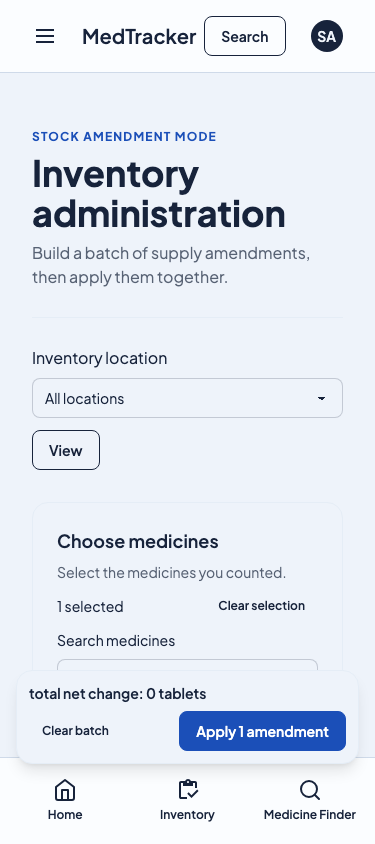
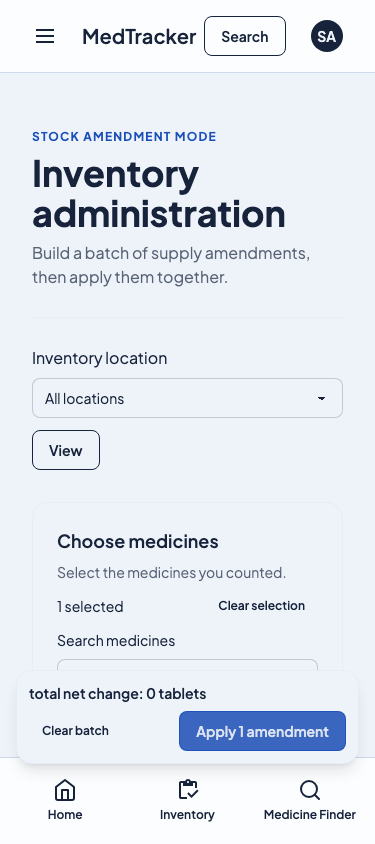
fix(care): close review findings and wider journey failures

Changed region(s): [[0.4693, 0.8318, 0.9387, 0.8934]]

diff --git a/assets/views/health_events/form.html b/assets/views/health_events/form.html
@@ -2,9 +2,9 @@
 {% block content %}
 <section class="max-w-3xl mx-auto space-y-6">
   <h1 class="text-3xl font-semibold">{{ title }}</h1>
-  <p>{{ person.name }} · {{ labels.form.subtitle }}</p>
+  <p>{{ person.name }} · {{ health_labels.form.subtitle }}</p>
   {% if error %}
-  <div id="health-event-error" class="alert alert-error" role="alert"><div><p>{{ error }}</p>{% if editing %}<a class="link" href="{{ latest_url }}">{{ labels.browser.latest }}</a>{% endif %}</div></div>
+  <div id="health-event-error" class="alert alert-error" role="alert"><div><p>{{ error }}</p>{% if editing %}<a class="link" href="{{ latest_url }}">{{ health_labels.browser.latest }}</a>{% endif %}</div></div>
   {% endif %}
   <form method="post" action="{{ action }}" class="card bg-base-100 border border-base-300" {% if error %}aria-describedby="health-event-error"{% endif %}>
     <div class="card-body gap-6">
@@ -12,33 +12,33 @@
       <input type="hidden" name="etag" value="{{ draft.etag }}">
       <input type="hidden" name="event_kind" value="{{ draft.event_kind }}">
       <input type="hidden" name="locale" value="{{ lang }}">
-      <div class="grid gap-2"><label for="health-title" class="font-semibold">{{ labels.form.title }}</label><input id="health-title" name="title" value="{{ draft.title }}" class="input w-full" required></div>
+      <div class="grid gap-2"><label for="health-title" class="font-semibold">{{ health_labels.form.title }}</label><input id="health-title" name="title" value="{{ draft.title }}" class="input w-full" required></div>
       <div class="grid sm:grid-cols-2 gap-6">
-        <div class="grid gap-2"><label for="health-started" class="font-semibold">{{ labels.form.started_on }}</label><input id="health-started" name="started_on" type="date" value="{{ draft.started_on }}" class="input w-full min-w-0" required></div>
-        <div class="grid gap-2"><label for="health-ended" class="font-semibold">{{ labels.form.ended_on }}</label><input id="health-ended" name="ended_on" type="date" value="{{ draft.ended_on }}" class="input w-full min-w-0" {% if end_error %}aria-invalid="true" aria-describedby="health-event-error"{% endif %}>
-          <label class="flex items-center gap-3"><input name="ongoing" type="checkbox" value="1" class="checkbox" {% if draft.ongoing | default(value="") == "1" %}checked{% endif %}>{{ labels.form.ongoing }}</label>
+        <div class="grid gap-2"><label for="health-started" class="font-semibold">{{ health_labels.form.started_on }}</label><input id="health-started" name="started_on" type="date" value="{{ draft.started_on }}" class="input w-full min-w-0" required></div>
+        <div class="grid gap-2"><label for="health-ended" class="font-semibold">{{ health_labels.form.ended_on }}</label><input id="health-ended" name="ended_on" type="date" value="{{ draft.ended_on }}" class="input w-full min-w-0" {% if end_error %}aria-invalid="true" aria-describedby="health-event-error"{% endif %}>
+          <label class="flex items-center gap-3"><input name="ongoing" type="checkbox" value="1" class="checkbox" {% if draft.ongoing | default(value="") == "1" %}checked{% endif %}>{{ health_labels.form.ongoing }}</label>
         </div>
       </div>
-      <div class="grid gap-2"><label for="health-severity" class="font-semibold">{{ labels.form.severity }}</label>
+      <div class="grid gap-2"><label for="health-severity" class="font-semibold">{{ health_labels.form.severity }}</label>
         <select id="health-severity" name="severity" class="select w-full">
-          <option value="" {% if draft.severity == "" %}selected{% endif %}>{{ labels.form.no_severity }}</option>
-          {% for value in ["mild","moderate","severe"] %}<option value="{{ value }}" {% if draft.severity == value %}selected{% endif %}>{{ labels.severities[value] }}</option>{% endfor %}
+          <option value="" {% if draft.severity == "" %}selected{% endif %}>{{ health_labels.form.no_severity }}</option>
+          {% for value in ["mild","moderate","severe"] %}<option value="{{ value }}" {% if draft.severity == value %}selected{% endif %}>{{ health_labels.severities[value] }}</option>{% endfor %}
         </select>
       </div>
       {% if side_effect %}
-      <fieldset class="space-y-3"><legend class="font-semibold">{{ labels.form.suspected_medications }}</legend>
-        {% if medications | length == 0 %}<p>{{ labels.browser.medications_empty }}</p>{% endif %}
+      <fieldset class="space-y-3"><legend class="font-semibold">{{ health_labels.form.suspected_medications }}</legend>
+        {% if medications | length == 0 %}<p>{{ health_labels.browser.medications_empty }}</p>{% endif %}
         {% for medication in medications %}
         <label class="flex items-center gap-3"><input name="medication_{{ medication.id }}" type="checkbox" value="1" class="checkbox" {% if medication.selected %}checked{% endif %}>{{ medication.name }}</label>
         {% endfor %}
       </fieldset>
       {% endif %}
-      <div class="grid gap-2"><label for="health-notes" class="font-semibold">{{ labels.form.notes }}</label><textarea id="health-notes" name="notes" class="textarea w-full" rows="4">{{ draft.notes }}</textarea></div>
-      <div class="grid gap-2"><label for="health-action" class="font-semibold">{{ labels.form.action_taken }}</label><textarea id="health-action" name="action_taken" class="textarea w-full" rows="3">{{ draft.action_taken }}</textarea></div>
-      <label class="flex items-center gap-3"><input name="medical_help_sought" type="checkbox" value="1" class="checkbox" {% if draft.medical_help_sought | default(value="") == "1" %}checked{% endif %}>{{ labels.form.medical_help_sought }}</label>
+      <div class="grid gap-2"><label for="health-notes" class="font-semibold">{{ health_labels.form.notes }}</label><textarea id="health-notes" name="notes" class="textarea w-full" rows="4">{{ draft.notes }}</textarea></div>
+      <div class="grid gap-2"><label for="health-action" class="font-semibold">{{ health_labels.form.action_taken }}</label><textarea id="health-action" name="action_taken" class="textarea w-full" rows="3">{{ draft.action_taken }}</textarea></div>
+      <label class="flex items-center gap-3"><input name="medical_help_sought" type="checkbox" value="1" class="checkbox" {% if draft.medical_help_sought | default(value="") == "1" %}checked{% endif %}>{{ health_labels.form.medical_help_sought }}</label>
       <div class="flex flex-wrap gap-3">
-        <button type="submit" class="btn btn-neutral">{{ labels.actions.save }}</button>
-        <a class="btn btn-ghost" href="/households/{{ slug }}/people/{{ person.id }}/health_events?locale={{ lang }}">{{ labels.actions.cancel }}</a>
+        <button type="submit" class="btn btn-neutral">{{ health_labels.actions.save }}</button>
+        <a class="btn btn-ghost" href="/households/{{ slug }}/people/{{ person.id }}/health_events?locale={{ lang }}">{{ health_labels.actions.cancel }}</a>
       </div>
     </div>
   </form>

diff --git a/assets/views/health_events/index.html b/assets/views/health_events/index.html
@@ -4,43 +4,43 @@
   <a class="link" href="/households/{{ slug }}/people/{{ person.id }}">{{ back_label }}: {{ person.name }}</a>
   <header class="space-y-2">
     <h1 class="text-3xl font-semibold">{{ title }}</h1>
-    <p class="text-base-content/70">{{ labels.index.subtitle }}</p>
+    <p class="text-base-content/70">{{ health_labels.index.subtitle }}</p>
   </header>
   {% if can_record %}
   <div class="flex flex-wrap gap-3">
-    <a class="btn btn-neutral" href="/households/{{ slug }}/people/{{ person.id }}/health_events/new?event_kind=illness&amp;locale={{ lang }}">{{ labels.actions.record_illness }}</a>
-    <a class="btn btn-outline" href="/households/{{ slug }}/people/{{ person.id }}/health_events/new?event_kind=suspected_side_effect&amp;locale={{ lang }}">{{ labels.actions.record_suspected_side_effect }}</a>
+    <a class="btn btn-neutral" href="/households/{{ slug }}/people/{{ person.id }}/health_events/new?event_kind=illness&amp;locale={{ lang }}">{{ health_labels.actions.record_illness }}</a>
+    <a class="btn btn-outline" href="/households/{{ slug }}/people/{{ person.id }}/health_events/new?event_kind=suspected_side_effect&amp;locale={{ lang }}">{{ health_labels.actions.record_suspected_side_effect }}</a>
   </div>
   {% endif %}
   {% if events | length == 0 %}
-  <p class="rounded-box border border-base-300 bg-base-100 p-6">{{ labels.index.empty }}</p>
+  <p class="rounded-box border border-base-300 bg-base-100 p-6">{{ health_labels.index.empty }}</p>
   {% else %}
   <ol class="space-y-4">
     {% for event in events %}
     <li><article class="card bg-base-100 border border-base-300"><div class="card-body">
-      <span class="badge badge-outline">{{ labels.kinds[event.event_kind] }}</span>
+      <span class="badge badge-outline">{{ health_labels.kinds[event.event_kind] }}</span>
       <h2 class="card-title">{{ event.title }}</h2>
-      {% if event.ongoing %}<p>{{ labels.index.ongoing_from | replace(from="%{started_on}",to=event.started_on) }}</p>{% else %}<p>{{ labels.index.date_range | replace(from="%{started_on}",to=event.started_on) | replace(from="%{ended_on}",to=event.ended_on) }}</p>{% endif %}
-      {% if event.severity %}<p>{{ labels.form.severity }}: {{ labels.severities[event.severity] }}</p>{% endif %}
-      {% if event.medication_names | length > 0 %}<p>{{ labels.form.suspected_medications }}: {{ event.medication_names | join(sep=", ") }}</p>{% endif %}
-      {% if event.notes %}<p class="whitespace-pre-wrap">{{ labels.form.notes }}: {{ event.notes }}</p>{% endif %}
-      {% if event.action_taken %}<p class="whitespace-pre-wrap">{{ labels.form.action_taken }}: {{ event.action_taken }}</p>{% endif %}
-      {% if event.medical_help_sought %}<p>{{ labels.form.medical_help_sought }}</p>{% endif %}
+      {% if event.ongoing %}<p>{{ health_labels.index.ongoing_from | replace(from="%{started_on}",to=event.started_on) }}</p>{% else %}<p>{{ health_labels.index.date_range | replace(from="%{started_on}",to=event.started_on) | replace(from="%{ended_on}",to=event.ended_on) }}</p>{% endif %}
+      {% if event.severity %}<p>{{ health_labels.form.severity }}: {{ health_labels.severities[event.severity] }}</p>{% endif %}
+      {% if event.medication_names | length > 0 %}<p>{{ health_labels.form.suspected_medications }}: {{ event.medication_names | join(sep=", ") }}</p>{% endif %}
+      {% if event.notes %}<p class="whitespace-pre-wrap">{{ health_labels.form.notes }}: {{ event.notes }}</p>{% endif %}
+      {% if event.action_taken %}<p class="whitespace-pre-wrap">{{ health_labels.form.action_taken }}: {{ event.action_taken }}</p>{% endif %}
+      {% if event.medical_help_sought %}<p>{{ health_labels.form.medical_help_sought }}</p>{% endif %}
       {% if can_manage %}
       <div class="flex flex-wrap gap-3">
-        <a class="btn btn-outline w-fit" href="/households/{{ slug }}/people/{{ person.id }}/health_events/{{ event.id }}/edit?locale={{ lang }}">{{ labels.actions.edit }}</a>
-        <button type="button" class="btn btn-outline btn-error" data-dialog-open="health-delete-{{ event.id }}">{{ labels.actions.delete }}</button>
+        <a class="btn btn-outline w-fit" href="/households/{{ slug }}/people/{{ person.id }}/health_events/{{ event.id }}/edit?locale={{ lang }}">{{ health_labels.actions.edit }}</a>
+        <button type="button" class="btn btn-outline btn-error" data-dialog-open="health-delete-{{ event.id }}">{{ health_labels.actions.delete }}</button>
       </div>
       <dialog id="health-delete-{{ event.id }}" class="modal" aria-labelledby="health-delete-title-{{ event.id }}">
         <div class="modal-box space-y-4">
-          <h2 id="health-delete-title-{{ event.id }}" class="text-xl font-semibold">{{ labels.browser.delete_confirm }}</h2>
-          <p>{{ event.title }}</p><p>{{ labels.browser.delete_body }}</p>
+          <h2 id="health-delete-title-{{ event.id }}" class="text-xl font-semibold">{{ health_labels.browser.delete_confirm }}</h2>
+          <p>{{ event.title }}</p><p>{{ health_labels.browser.delete_body }}</p>
           <form method="post" action="/households/{{ slug }}/people/{{ person.id }}/health_events/{{ event.id }}/delete" class="flex flex-wrap gap-3">
             <input type="hidden" name="authenticity_token" value="{{ authenticity_token }}">
             <input type="hidden" name="etag" value="{{ event.etag }}">
             <input type="hidden" name="locale" value="{{ lang }}">
-            <button type="button" class="btn btn-ghost" data-dialog-close>{{ labels.actions.cancel }}</button>
-            <button type="submit" class="btn btn-error">{{ labels.actions.delete }}</button>
+            <button type="button" class="btn btn-ghost" data-dialog-close>{{ health_labels.actions.cancel }}</button>
+            <button type="submit" class="btn btn-error">{{ health_labels.actions.delete }}</button>
           </form>
         </div>
       </dialog>

diff --git a/assets/views/person_carers/index.html b/assets/views/person_carers/index.html
@@ -2,7 +2,7 @@
 {% block content %}
 <section class="max-w-3xl mx-auto space-y-6">
   <a class="link" href="/households/{{ slug }}/people/{{ person.id }}">{{ back_label }}: {{ person.name }}</a>
-  <header><h1 class="text-3xl font-semibold">{{ title }}</h1><p class="mt-2">{{ labels.new_subtitle | replace(from="%{name}",to=person.name) }}</p></header>
+  <header><h1 class="text-3xl font-semibold">{{ title }}</h1><p class="mt-2">{{ carer_labels.new_subtitle | replace(from="%{name}",to=person.name) }}</p></header>
   {% include "components/care_warning.html" %}
   {% if error %}<div class="alert alert-error" id="person-carer-error" role="alert">{{ error }}</div>{% endif %}
   <div class="card bg-base-100 border border-base-300"><div class="card-body">
@@ -10,40 +10,40 @@
       <input type="hidden" name="authenticity_token" value="{{ authenticity_token }}">
       <input type="hidden" name="locale" value="{{ lang }}">
       {% if manager %}
-      <div class="grid gap-2"><label class="font-semibold" for="person-carer-id">{{ labels.carer }}</label>
+      <div class="grid gap-2"><label class="font-semibold" for="person-carer-id">{{ carer_labels.carer }}</label>
         <select class="select w-full" id="person-carer-id" name="carer_id" required>
-          <option value="">{{ labels.select_carer }}</option>
+          <option value="">{{ carer_labels.select_carer }}</option>
           {% for carer in options %}<option value="{{ carer.id }}" {% if carer.selected %}selected{% endif %}>{{ carer.name }}</option>{% endfor %}
         </select>
       </div>
-      <div class="grid gap-2"><label class="font-semibold" for="person-carer-kind">{{ labels.relationship_type }}</label>
+      <div class="grid gap-2"><label class="font-semibold" for="person-carer-kind">{{ carer_labels.relationship_type }}</label>
         <select class="select w-full" id="person-carer-kind" name="relationship_type">
-          {% for kind in ["parent","family_member","professional_carer"] %}<option value="{{ kind }}" {% if draft.relationship_type == kind %}selected{% endif %}>{{ labels.browser[kind] }}</option>{% endfor %}
+          {% for kind in ["parent","family_member","professional_carer"] %}<option value="{{ kind }}" {% if draft.relationship_type == kind %}selected{% endif %}>{{ carer_labels.browser[kind] }}</option>{% endfor %}
         </select>
       </div>
       {% else %}
-      <div class="grid gap-2"><label class="font-semibold" for="person-carer-email">{{ labels.email }}</label>
-        <input class="input w-full" id="person-carer-email" name="email" type="email" value="{{ draft.email }}" placeholder="{{ labels.email_placeholder }}" autocomplete="email" required {% if error %}aria-invalid="true" aria-describedby="person-carer-error"{% endif %}>
+      <div class="grid gap-2"><label class="font-semibold" for="person-carer-email">{{ carer_labels.email }}</label>
+        <input class="input w-full" id="person-carer-email" name="email" type="email" value="{{ draft.email }}" placeholder="{{ carer_labels.email_placeholder }}" autocomplete="email" required {% if error %}aria-invalid="true" aria-describedby="person-carer-error"{% endif %}>
       </div>
       {% endif %}
-      <div class="flex flex-wrap gap-3"><button class="btn btn-neutral" type="submit">{{ labels.submit }}</button><a class="btn btn-ghost" href="/households/{{ slug }}/people/{{ person.id }}">{{ labels.cancel }}</a></div>
+      <div class="flex flex-wrap gap-3"><button class="btn btn-neutral" type="submit">{{ carer_labels.submit }}</button><a class="btn btn-ghost" href="/households/{{ slug }}/people/{{ person.id }}">{{ carer_labels.cancel }}</a></div>
     </form>
   </div></div>
   <section aria-labelledby="person-carer-list-heading" class="space-y-4">
-    <h2 id="person-carer-list-heading" class="text-2xl font-semibold">{{ labels.browser.relationships }}</h2>
-    {% if records | length == 0 %}<p>{{ labels.browser.empty }}</p>{% endif %}
+    <h2 id="person-carer-list-heading" class="text-2xl font-semibold">{{ carer_labels.browser.relationships }}</h2>
+    {% if records | length == 0 %}<p>{{ carer_labels.browser.empty }}</p>{% endif %}
     <ul class="space-y-3">
       {% for relation in records %}
       <li class="card bg-base-100 border border-base-300"><div class="card-body gap-3">
         <h3 class="card-title">{{ relation.name }}</h3>
-        <p>{{ labels.browser[relation.kind] | default(value=relation.kind) }}</p>
-        <p class="badge badge-outline">{% if relation.active %}{{ labels.browser.active }}{% else %}{{ labels.browser.inactive }}{% endif %}</p>
+        <p>{{ carer_labels.browser[relation.kind] | default(value=relation.kind) }}</p>
+        <p class="badge badge-outline">{% if relation.active %}{{ carer_labels.browser.active }}{% else %}{{ carer_labels.browser.inactive }}{% endif %}</p>
         {% if manager %}
         <form action="/households/{{ slug }}/people/{{ person.id }}/carer_relationships/{{ relation.id }}/{% if relation.active %}remove{% else %}restore{% endif %}" method="post">
           <input type="hidden" name="authenticity_token" value="{{ authenticity_token }}">
           <input type="hidden" name="locale" value="{{ lang }}">
           <input type="hidden" name="version" value="{{ relation.version }}">
-          <button class="btn btn-outline w-fit {% if relation.active %}btn-error{% endif %}" type="submit">{% if relation.active %}{{ labels.browser.remove }}{% else %}{{ labels.browser.restore }}{% endif %}</button>
+          <button class="btn btn-outline w-fit {% if relation.active %}btn-error{% endif %}" type="submit">{% if relation.active %}{{ carer_labels.browser.remove }}{% else %}{{ carer_labels.browser.restore }}{% endif %}</button>
         </form>
         {% endif %}
       </div></li>

diff --git a/assets/views/medications/workflow.html b/assets/views/medications/workflow.html
@@ -1,12 +1,12 @@
 {% extends "layouts/base.html" %}
 {% block content %}
 <section class="max-w-2xl mx-auto">
-  <a class="link" href="/households/{{ slug }}/medications">Back to medications</a>
-  <h1 class="text-3xl font-semibold mt-4">Choose a person</h1>
-  <p class="mt-2">Choose whose medication you want to manage.</p>
+  <a class="link" href="/households/{{ slug }}/medications">{{ labels.medication_workflow.chooser.back }}</a>
+  <h1 class="text-3xl font-semibold mt-4">{{ labels.medication_workflow.chooser.title }}</h1>
+  <p class="mt-2">{{ labels.medication_workflow.chooser.subtitle }}</p>
   <ul class="grid gap-3 mt-6">
-    {% for person in people %}<li class="card card-body border border-base-300 bg-base-100"><h2 class="card-title">{{ person.name }}</h2><div class="flex flex-wrap gap-2">{% if schedule_intent %}<a class="btn btn-neutral" href="/households/{{ slug }}/people/{{ person.id }}/treatments/schedules/new?source=workflow{% if medication_id %}&medication_id={{ medication_id }}{% endif %}">{{ labels.global_search.schedule_for | replace(from="%{person}", to=person.name) }}</a>{% else %}<a class="btn btn-neutral" href="/households/{{ slug }}/people/{{ person.id }}/treatments/assignments/new?source=workflow{% if medication_id %}&medication_id={{ medication_id }}{% endif %}">Assign medication to {{ person.name }}</a>{% if can_create %}<a class="btn btn-outline" href="/households/{{ slug }}/medications/new?person_id={{ person.id }}">Create medication for {{ person.name }}</a>{% endif %}{% endif %}</div></li>
-    {% else %}<li>No people are available for medication management.</li>{% endfor %}
+    {% for person in people %}<li class="card card-body border border-base-300 bg-base-100"><h2 class="card-title">{{ person.name }}</h2><div class="flex flex-wrap gap-2">{% if schedule_intent %}<a class="btn btn-neutral" href="/households/{{ slug }}/people/{{ person.id }}/treatments/schedules/new?source=workflow{% if medication_id %}&medication_id={{ medication_id }}{% endif %}">{{ labels.global_search.schedule_for | replace(from="%{person}", to=person.name) }}</a>{% else %}<a class="btn btn-neutral" href="/households/{{ slug }}/people/{{ person.id }}/treatments/assignments/new?source=workflow{% if medication_id %}&medication_id={{ medication_id }}{% endif %}">{{ labels.medication_workflow.chooser.assign | replace(from="%{person}", to=person.name) }}</a>{% if can_create %}<a class="btn btn-outline" href="/households/{{ slug }}/medications/new?person_id={{ person.id }}">{{ labels.medication_workflow.chooser.create | replace(from="%{person}", to=person.name) }}</a>{% endif %}{% endif %}</div></li>
+    {% else %}<li>{{ labels.medication_workflow.chooser.empty }}</li>{% endfor %}
   </ul>
 </section>
 {% endblock content %}

diff --git a/assets/static/css/app.css b/assets/static/css/app.css
@@ -43,4 +43,5 @@ dialog.modal:not([open]) { display: none; }
 .tab { color: var(--foreground); }
 .btn { max-width: 100%; }
 @media (max-width: 480px) { .shell-main { padding-block: 1.5rem; } .shell-header-inner { gap: 0.5rem; flex-wrap: wrap; } .shell-header-inner.app-header { flex-wrap: nowrap; } }
+@media (max-width: 350px) { .shell-header-inner.app-header { flex-wrap: wrap; } }
 @media (prefers-reduced-motion: reduce) { *, *::before, *::after { scroll-behavior: auto !important; transition-duration: 0.01ms !important; animation-duration: 0.01ms !important; } }

diff --git a/tests/care_api/browser_push_reminders.rs b/tests/care_api/browser_push_reminders.rs
@@ -1265,7 +1265,8 @@ async fn browser_reminder_keeps_independent_device_outcomes() {
         .with_second(0)
         .unwrap()
         .with_nanosecond(0)
-        .unwrap();
+        .unwrap()
+        - chrono::Duration::minutes(1);
     app.fixture.admin.execute_unprepared("UPDATE accounts SET preferences=jsonb_build_object('time_zone','UTC') WHERE id=71001; UPDATE person_medications SET administration_kind=0,dose_cycle=0,max_daily_doses=1,created_at=now()-interval '2 days' WHERE id=81001; INSERT INTO push_subscriptions(account_id,endpoint,p256dh,auth,created_at,updated_at) VALUES(71001,'https://fcm.googleapis.com/fcm/send/accepted','synthetic','synthetic',now(),now()),(71001,'https://fcm.googleapis.com/fcm/send/failed','synthetic','synthetic',now(),now())").await.unwrap();
     app.fixture.admin.execute_raw(Statement::from_sql_and_values(DbBackend::Postgres,
         "INSERT INTO notification_preferences(household_id,person_id,enabled,dose_due_enabled,missed_dose_enabled,low_stock_enabled,private_text_enabled,morning_time,afternoon_time,evening_time,night_time,created_at,updated_at) VALUES(72001,73001,true,true,false,false,true,$1,NULL,NULL,NULL,now(),now())", [now.time().into()])).await.unwrap();
@@ -1290,6 +1291,13 @@ async fn browser_reminder_keeps_independent_device_outcomes() {
     assert_eq!(row.try_get::<i64>("", "accepted").unwrap(), 1);
     assert_eq!(row.try_get::<i64>("", "retryable").unwrap(), 1);
     assert_eq!(transport.0.lock().unwrap().len(), 2);
+    let row = app.fixture.admin.query_one_raw(Statement::from_string(DbBackend::Postgres,
+        "SELECT next_attempt_at FROM notification_deliveries WHERE status='pending' AND attempt_count=1")).await.unwrap().unwrap();
+    let retry_at = row
+        .try_get::<chrono::NaiveDateTime>("", "next_attempt_at")
+        .unwrap()
+        .and_utc();
+    assert!(retry_at > now + chrono::Duration::minutes(2));
     app.fixture
         .admin
         .execute_unprepared("DELETE FROM push_subscriptions WHERE account_id=71001")
@@ -1299,7 +1307,7 @@ async fn browser_reminder_keeps_independent_device_outcomes() {
         browser_push::reminders::drain_pending(
             &app.context,
             &scope,
-            now + chrono::Duration::minutes(2)
+            retry_at + chrono::Duration::seconds(1)
         )
         .await
         .unwrap(),

diff --git a/src/controllers/people/carer_relationships.rs b/src/controllers/people/carer_relationships.rs
@@ -63,7 +63,8 @@ impl Page<'_> {
             data["slug"] = json!(self.slug);
             data["lang"] = json!(language);
             data["title"] = labels["people"]["carer_relationships"]["new_title"].clone();
-            data["labels"] = labels["people"]["carer_relationships"].clone();
+            data["carer_labels"] = labels["people"]["carer_relationships"].clone();
+            data["labels"] = labels.clone();
             data["back_label"] = labels["people"]["show"]["back"].clone();
             data["care_warning_labels"] = labels["care_warning"].clone();
             data["care_warning"] = crate::models::care::care_warning::project(&tenant, Some(&[id]))
@@ -81,18 +82,20 @@ impl Page<'_> {
             }
             data["draft"] = json!(draft);
             data["error"] = error.map_or(Value::Null, |error| match error {
-                OperationError::Conflict { .. } => data["labels"]["browser"]["stale"].clone(),
-                OperationError::Unavailable => data["labels"]["browser"]["unavailable"].clone(),
-                OperationError::Forbidden => data["labels"]["browser"]["forbidden"].clone(),
+                OperationError::Conflict { .. } => data["carer_labels"]["browser"]["stale"].clone(),
+                OperationError::Unavailable => {
+                    data["carer_labels"]["browser"]["unavailable"].clone()
+                }
+                OperationError::Forbidden => data["carer_labels"]["browser"]["forbidden"].clone(),
                 OperationError::Validation { details }
                     if details["errors"]["invitation"].is_array() =>
                 {
-                    data["labels"]["browser"]["invitation_unavailable"].clone()
+                    data["carer_labels"]["browser"]["invitation_unavailable"].clone()
                 }
                 _ if data["manager"] == true => {
-                    data["labels"]["browser"]["invalid_assignment"].clone()
+                    data["carer_labels"]["browser"]["invalid_assignment"].clone()
                 }
-                _ => data["labels"]["invalid_role"].clone(),
+                _ => data["carer_labels"]["invalid_role"].clone(),
             });
             Ok::<_, OperationError>(data)
         }

diff --git a/src/controllers/people/health_events.rs b/src/controllers/people/health_events.rs
@@ -45,7 +45,8 @@ pub(super) async fn index(
         data["person"] = person["data"].clone();
         data["title"] = json!(title);
         data["lang"] = json!(language);
-        data["labels"] = labels["health_events"].clone();
+        data["health_labels"] = labels["health_events"].clone();
+        data["labels"] = labels.clone();
         data["back_label"] = labels["people"]["show"]["back"].clone();
         data["events"] = json!(events);
         data["can_record"] =
@@ -151,7 +152,8 @@ impl FormPage<'_> {
             data["person"]=person["data"].clone();
             data["title"]=json!(title);
             data["lang"]=json!(language);
-            data["labels"]=labels.clone();
+            data["health_labels"]=labels.clone();
+            data["labels"]=all_labels.clone();
             data["draft"]=json!(draft);
             data["medications"]=json!(options);
             data["side_effect"]=json!(kind=="suspected_side_effect");

diff --git a/tests/care_api/person_carers.rs b/tests/care_api/person_carers.rs
@@ -18,7 +18,7 @@ fn person_carer_pages_render_in_every_supported_locale() {
                 let data = json!({
                     "slug":"synthetic-household","person":{"id":73002,"name":"Synthetic minor"},
                     "lang":locale,"title":labels["people"]["carer_relationships"]["new_title"],
-                    "labels":labels["people"]["carer_relationships"],
+                    "labels":labels,"carer_labels":labels["people"]["carer_relationships"],
                     "back_label":labels["people"]["show"]["back"],
                     "care_warning_labels":labels["care_warning"],
                     "care_warning":{"person_id":73002,"person_name":"Synthetic minor","can_assign":true},

diff --git a/src/models/care/global_search.rs b/src/models/care/global_search.rs
@@ -174,6 +174,7 @@ async fn records(
         .filter(
             Condition::any()
                 .add(medication::Column::Name.ilike(&term))
+                .add(medication::Column::FriendlyName.ilike(&term))
                 .add(medication::Column::Category.ilike(&term))
                 .add(medication::Column::Barcode.ilike(&term))
                 .add(medication::Column::DmdCode.ilike(&term)),

diff --git a/src/controllers/medications/workflow.rs b/src/controllers/medications/workflow.rs
@@ -90,7 +90,7 @@ pub(super) async fn open(
         Err(_) => return unavailable(),
     };
     let mut data = rendering::appearance_context();
-    data["title"] = json!("Choose a person");
+    data["title"] = labels["medication_workflow"]["chooser"]["title"].clone();
     data["slug"] = json!(slug);
     data["can_create"] = json!(can_create);
     data["people"] = json!(

diff --git a/src/controllers/dosage_options.rs b/src/controllers/dosage_options.rs
@@ -79,6 +79,7 @@ impl Page<'_> {
         } else {
             "Add Dose Option"
         });
+        data["slug"] = json!(self.slug);
         data["base"] = json!(base);
         data["medication_url"] = json!(format!(
             "/households/{}/medications/{}",
